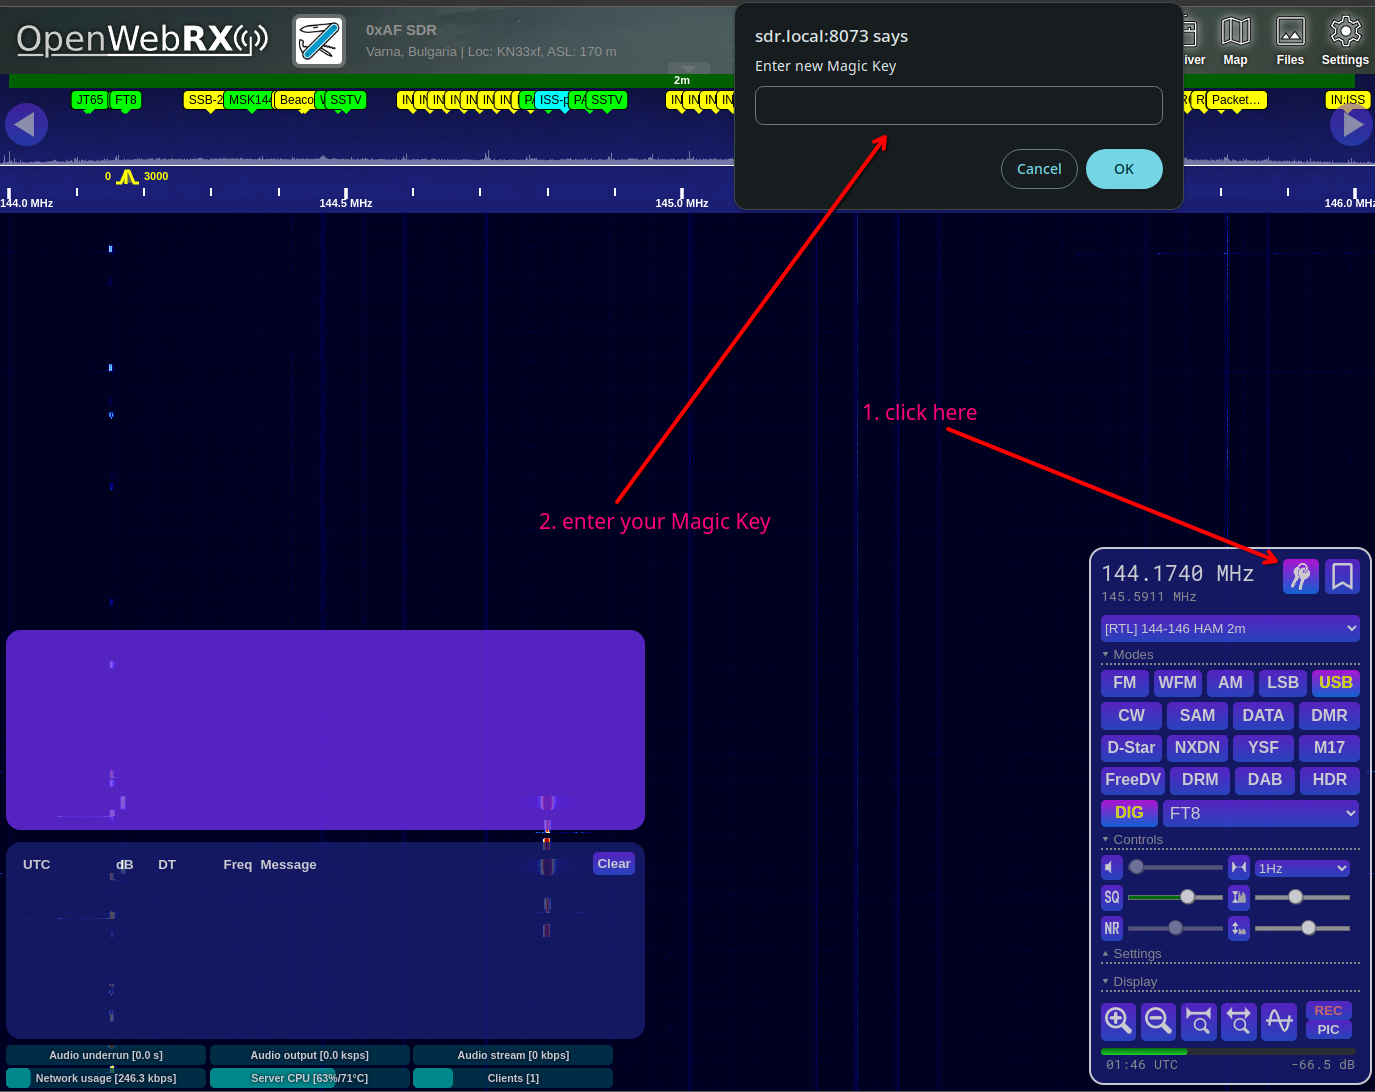
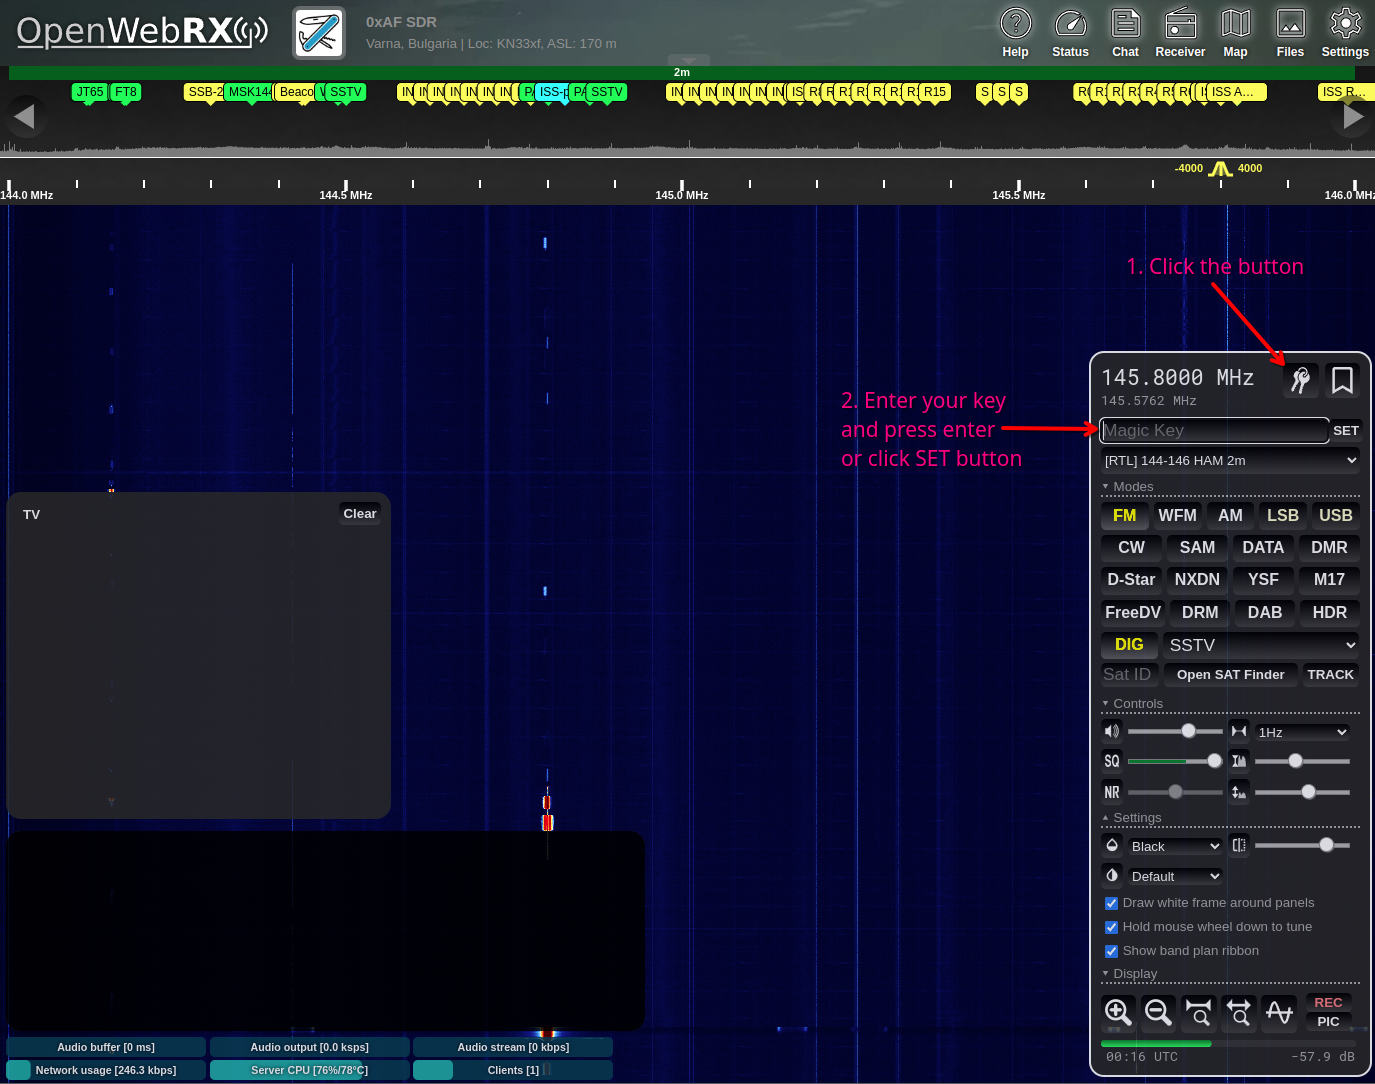
update magic key plugin

diff --git a/receiver/magic_key/magic_key.js b/receiver/magic_key/magic_key.js
@@ -17,29 +17,37 @@ Plugins.magic_key.init = async function () {
     return false;
   }
 
-
   if ($("#setMagicKeyBtn").length < 1) {
-    $(".openwebrx-bookmark-button").before(
-      '<div id="setMagicKeyBtn" class="openwebrx-button openwebrx-square-button">' +
-      '<svg fill="#FFFFFF" width="27px" height="27px" viewBox="-18.91 0 122.88 122.88" version="1.1" ' +
-      'xmlns="http://www.w3.org/2000/svg" xmlns:xlink="http://www.w3.org/1999/xlink" xml:space="preserve"><g>' +
-      '<path d="M60.78,43.44c-1.49,0.81-3.35,0.26-4.15-1.22c-0.81-1.49-0.26-3.35,1.23-4.15c7.04-3.82,10.32-8.76,10.98-13.59 c0.35-2.58-0.05-5.17-1.02-7.57c-' +
-      '0.99-2.43-2.56-4.64-4.55-6.42c-3.87-3.46-9.3-5.28-14.97-3.87c-2.3,0.57-4.29,1.72-6.03,3.34 c-1.85,1.72-3.45,3.97-4.85,6.63c-0.79,1.5-2.64,2.07-4.13,' +
-      '1.29c-1.5-0.79-2.07-2.64-1.29-4.13c1.72-3.26,3.73-6.06,6.11-8.28 c2.49-2.31,5.38-3.97,8.74-4.8c7.8-1.93,15.23,0.53,20.51,5.25c2.68,2.4,4.81,5.39,6.15,' +
-      '8.69c1.35,3.33,1.9,6.99,1.39,10.7 C73.99,31.93,69.75,38.57,60.78,43.44L60.78,43.44z M37.32,67.61c-11.6-15.58-11.88-30.34,2.2-44.06l-10.14-5.6 C21.26,' +
-      '14.79,6.36,38.08,12.12,44.3l7.9,11.72l-1.63,3.4c-0.45,1.01-0.01,1.72,1.09,2.21l1.07,0.29L0,102.59l4.16,8.87l8.32-2.45 l2.14-4.16l-2.05-3.84l4.52-0.97L' +
-      '18.14,98l-2.36-3.6l1.55-3.01l4.51-0.57l1.47-2.85l-2.52-3.29l1.61-3.12l4.6-0.75l6.26-11.95 l1.06,0.58C36.16,70.56,37.11,69.84,37.32,67.61L37.32,67.61z ' +
-      'M59.15,77.38l-3.06,11.42l-4.25,1.68l-0.89,3.33l3.1,2.63l-0.81,3.03 l-4.2,1.48l-0.86,3.2l3.01,2.95l-0.58,2.17l-4.13,1.87l2.76,3.25l-1.19,4.43l-7.45,4.07l' +
-      '-5.82-7.63l11.1-41.43l-2.69-0.72 c-0.55-0.15-0.89-0.72-0.74-1.28l1.13-4.21c-8.14-6.17-12.17-16.85-9.37-27.32c3.6-13.45,17.18-21.57,30.64-18.55 c0.06,' +
-      '0.72,0.05,1.45-0.05,2.18c-0.25,1.82-1.04,3.69-2.5,5.5c-0.2,0.24-0.41,0.49-0.63,0.73c-4.3-0.28-8.33,2.5-9.49,6.82 c-0.5,1.86-0.39,3.74,0.2,5.43c0.14,0.6,' +
-      '0.37,1.18,0.67,1.75c0.71,1.3,1.75,2.29,2.97,2.92c0.8,0.53,1.7,0.93,2.67,1.2 c4.83,1.29,9.78-1.49,11.22-6.24c1.46-1.29,2.73-2.65,3.82-4.05c2.12-2.73,3.57-' +
-      '5.63,4.43-8.58c5.84,6.3,8.41,15.37,6.02,24.29c-2.8,10.47-11.65,17.71-21.77,18.98l-1.13,4.21c-0.15,0.55-0.72,0.89-1.28,0.74L59.15,77.38L59.15,77.38z"/>' +
-      '</g></svg></div>');
-    $("#setMagicKeyBtn").css({ width: '27px', height: '27px', textAlign: 'center' });
+    $(".frequencies-container").after(`
+      <div id="magic-key-line" class="openwebrx-panel-line openwebrx-panel-flex-line" style="display: none">
+        <input id="magic-key-input" type="text" placeholder="Magic Key">
+        <div id="magic-key-set" class="openwebrx-button">SET</div>
+      </div>
+    `);
+    $(".openwebrx-bookmark-button").before(`
+      <div id="setMagicKeyBtn" class="openwebrx-button openwebrx-square-button" style="width: 27px; height: 27px; text-align: center;">
+      <svg fill="#FFFFFF" width="27px" height="27px" viewBox="-18.91 0 122.88 122.88" version="1.1" xmlns="http://www.w3.org/2000/svg" xmlns:xlink="http://www.w3.org/1999/xlink" xml:space="preserve"><g>
+        <path d="M60.78,43.44c-1.49,0.81-3.35,0.26-4.15-1.22c-0.81-1.49-0.26-3.35,1.23-4.15c7.04-3.82,10.32-8.76,10.98-13.59 c0.35-2.58-0.05-5.17-1.02-7.57c-0.99-2.43-2.56-4.64-4.55-6.42c-3.87-3.46-9.3-5.28-14.97-3.87c-2.3,0.57-4.29,1.72-6.03,3.34 c-1.85,1.72-3.45,3.97-4.85,6.63c-0.79,1.5-2.64,2.07-4.13,1.29c-1.5-0.79-2.07-2.64-1.29-4.13c1.72-3.26,3.73-6.06,6.11-8.28 c2.49-2.31,5.38-3.97,8.74-4.8c7.8-1.93,15.23,0.53,20.51,5.25c2.68,2.4,4.81,5.39,6.15,8.69c1.35,3.33,1.9,6.99,1.39,10.7 C73.99,31.93,69.75,38.57,60.78,43.44L60.78,43.44z M37.32,67.61c-11.6-15.58-11.88-30.34,2.2-44.06l-10.14-5.6 C21.26,14.79,6.36,38.08,12.12,44.3l7.9,11.72l-1.63,3.4c-0.45,1.01-0.01,1.72,1.09,2.21l1.07,0.29L0,102.59l4.16,8.87l8.32-2.45 l2.14-4.16l-2.05-3.84l4.52-0.97L18.14,98l-2.36-3.6l1.55-3.01l4.51-0.57l1.47-2.85l-2.52-3.29l1.61-3.12l4.6-0.75l6.26-11.95 l1.06,0.58C36.16,70.56,37.11,69.84,37.32,67.61L37.32,67.61z M59.15,77.38l-3.06,11.42l-4.25,1.68l-0.89,3.33l3.1,2.63l-0.81,3.03 l-4.2,1.48l-0.86,3.2l3.01,2.95l-0.58,2.17l-4.13,1.87l2.76,3.25l-1.19,4.43l-7.45,4.07l-5.82-7.63l11.1-41.43l-2.69-0.72 c-0.55-0.15-0.89-0.72-0.74-1.28l1.13-4.21c-8.14-6.17-12.17-16.85-9.37-27.32c3.6-13.45,17.18-21.57,30.64-18.55 c0.06,0.72,0.05,1.45-0.05,2.18c-0.25,1.82-1.04,3.69-2.5,5.5c-0.2,0.24-0.41,0.49-0.63,0.73c-4.3-0.28-8.33,2.5-9.49,6.82 c-0.5,1.86-0.39,3.74,0.2,5.43c0.14,0.6,0.37,1.18,0.67,1.75c0.71,1.3,1.75,2.29,2.97,2.92c0.8,0.53,1.7,0.93,2.67,1.2 c4.83,1.29,9.78-1.49,11.22-6.24c1.46-1.29,2.73-2.65,3.82-4.05c2.12-2.73,3.57-5.63,4.43-8.58c5.84,6.3,8.41,15.37,6.02,24.29c-2.8,10.47-11.65,17.71-21.77,18.98l-1.13,4.21c-0.15,0.55-0.72,0.89-1.28,0.74L59.15,77.38L59.15,77.38z"/>
+      </g></svg>
+      </div>
+    `);
     $('#setMagicKeyBtn').click(function () {
-      window.localKey = prompt("Enter new Magic Key");
-      if (window.localKey !== undefined) $('#openwebrx-panel-receiver').demodulatorPanel().setMagicKey(window.localKey);
+      $('#magic-key-line').toggle(250, function() {
+        if ($(this).is(":visible")) $('#magic-key-input').focus();
+      });
     });
+    function setKey() {
+      window.localKey = $('#magic-key-input').val();
+      if (!window.localKey.length) {
+        window.localKey = undefined;
+      } else {
+        $('#openwebrx-panel-receiver').demodulatorPanel().setMagicKey(window.localKey);
+      }
+      $('#magic-key-input').val('');
+      $('#magic-key-line').toggle(250);
+    }
+    $('#magic-key-set').click(setKey);
+    $('#magic-key-input').on('keypress',function(e) { if(e.which == 13) setKey(); });
 
     Plugins.utils.wrap_func(
       'getMagicKey',
@@ -47,14 +55,9 @@ Plugins.magic_key.init = async function () {
       function (orig, thisArg, args) { return true; },
       // afterCB: return localKey or the original one
       function (res) { return window.localKey !== undefined ? window.localKey : res; },
-      $('#openwebrx-panel-receiver').demodulatorPanel()
+      $('#openwebrx-panel-receiver').demodulatorPanel() // wrap getMagicKey in the demodulatorPanel
     );
-
   }
 
   return true;
 }
-
-
-
-
